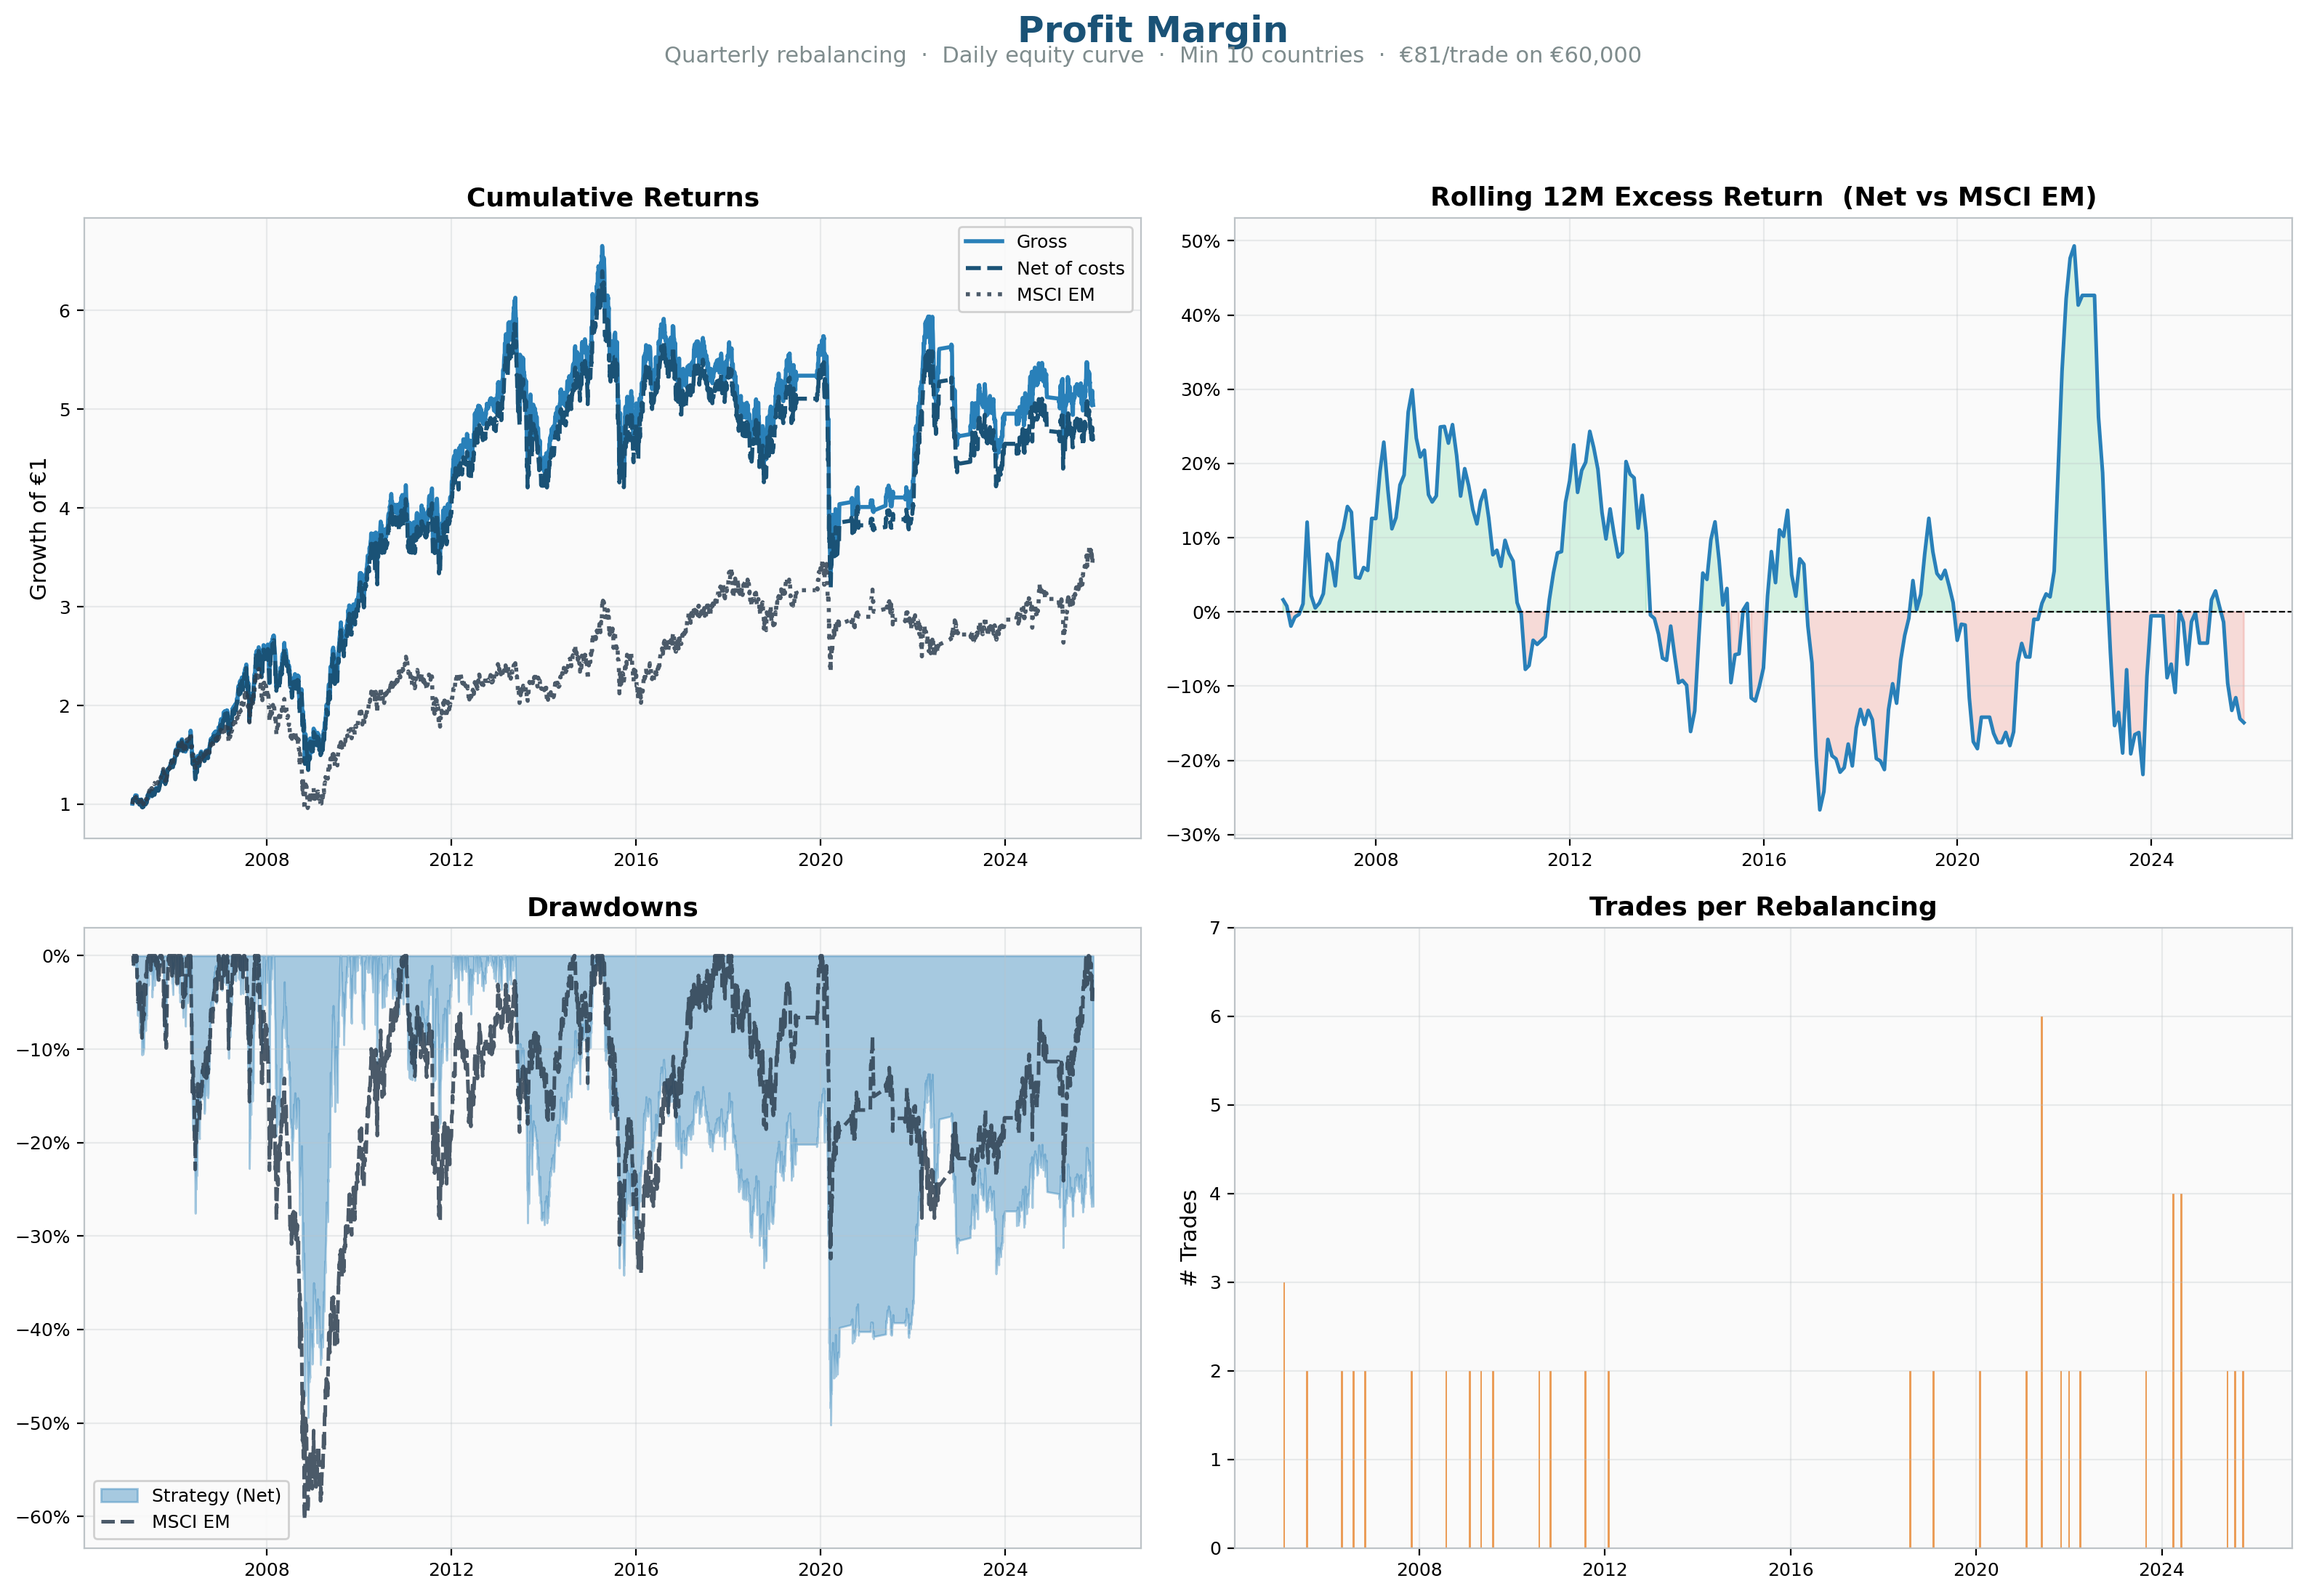
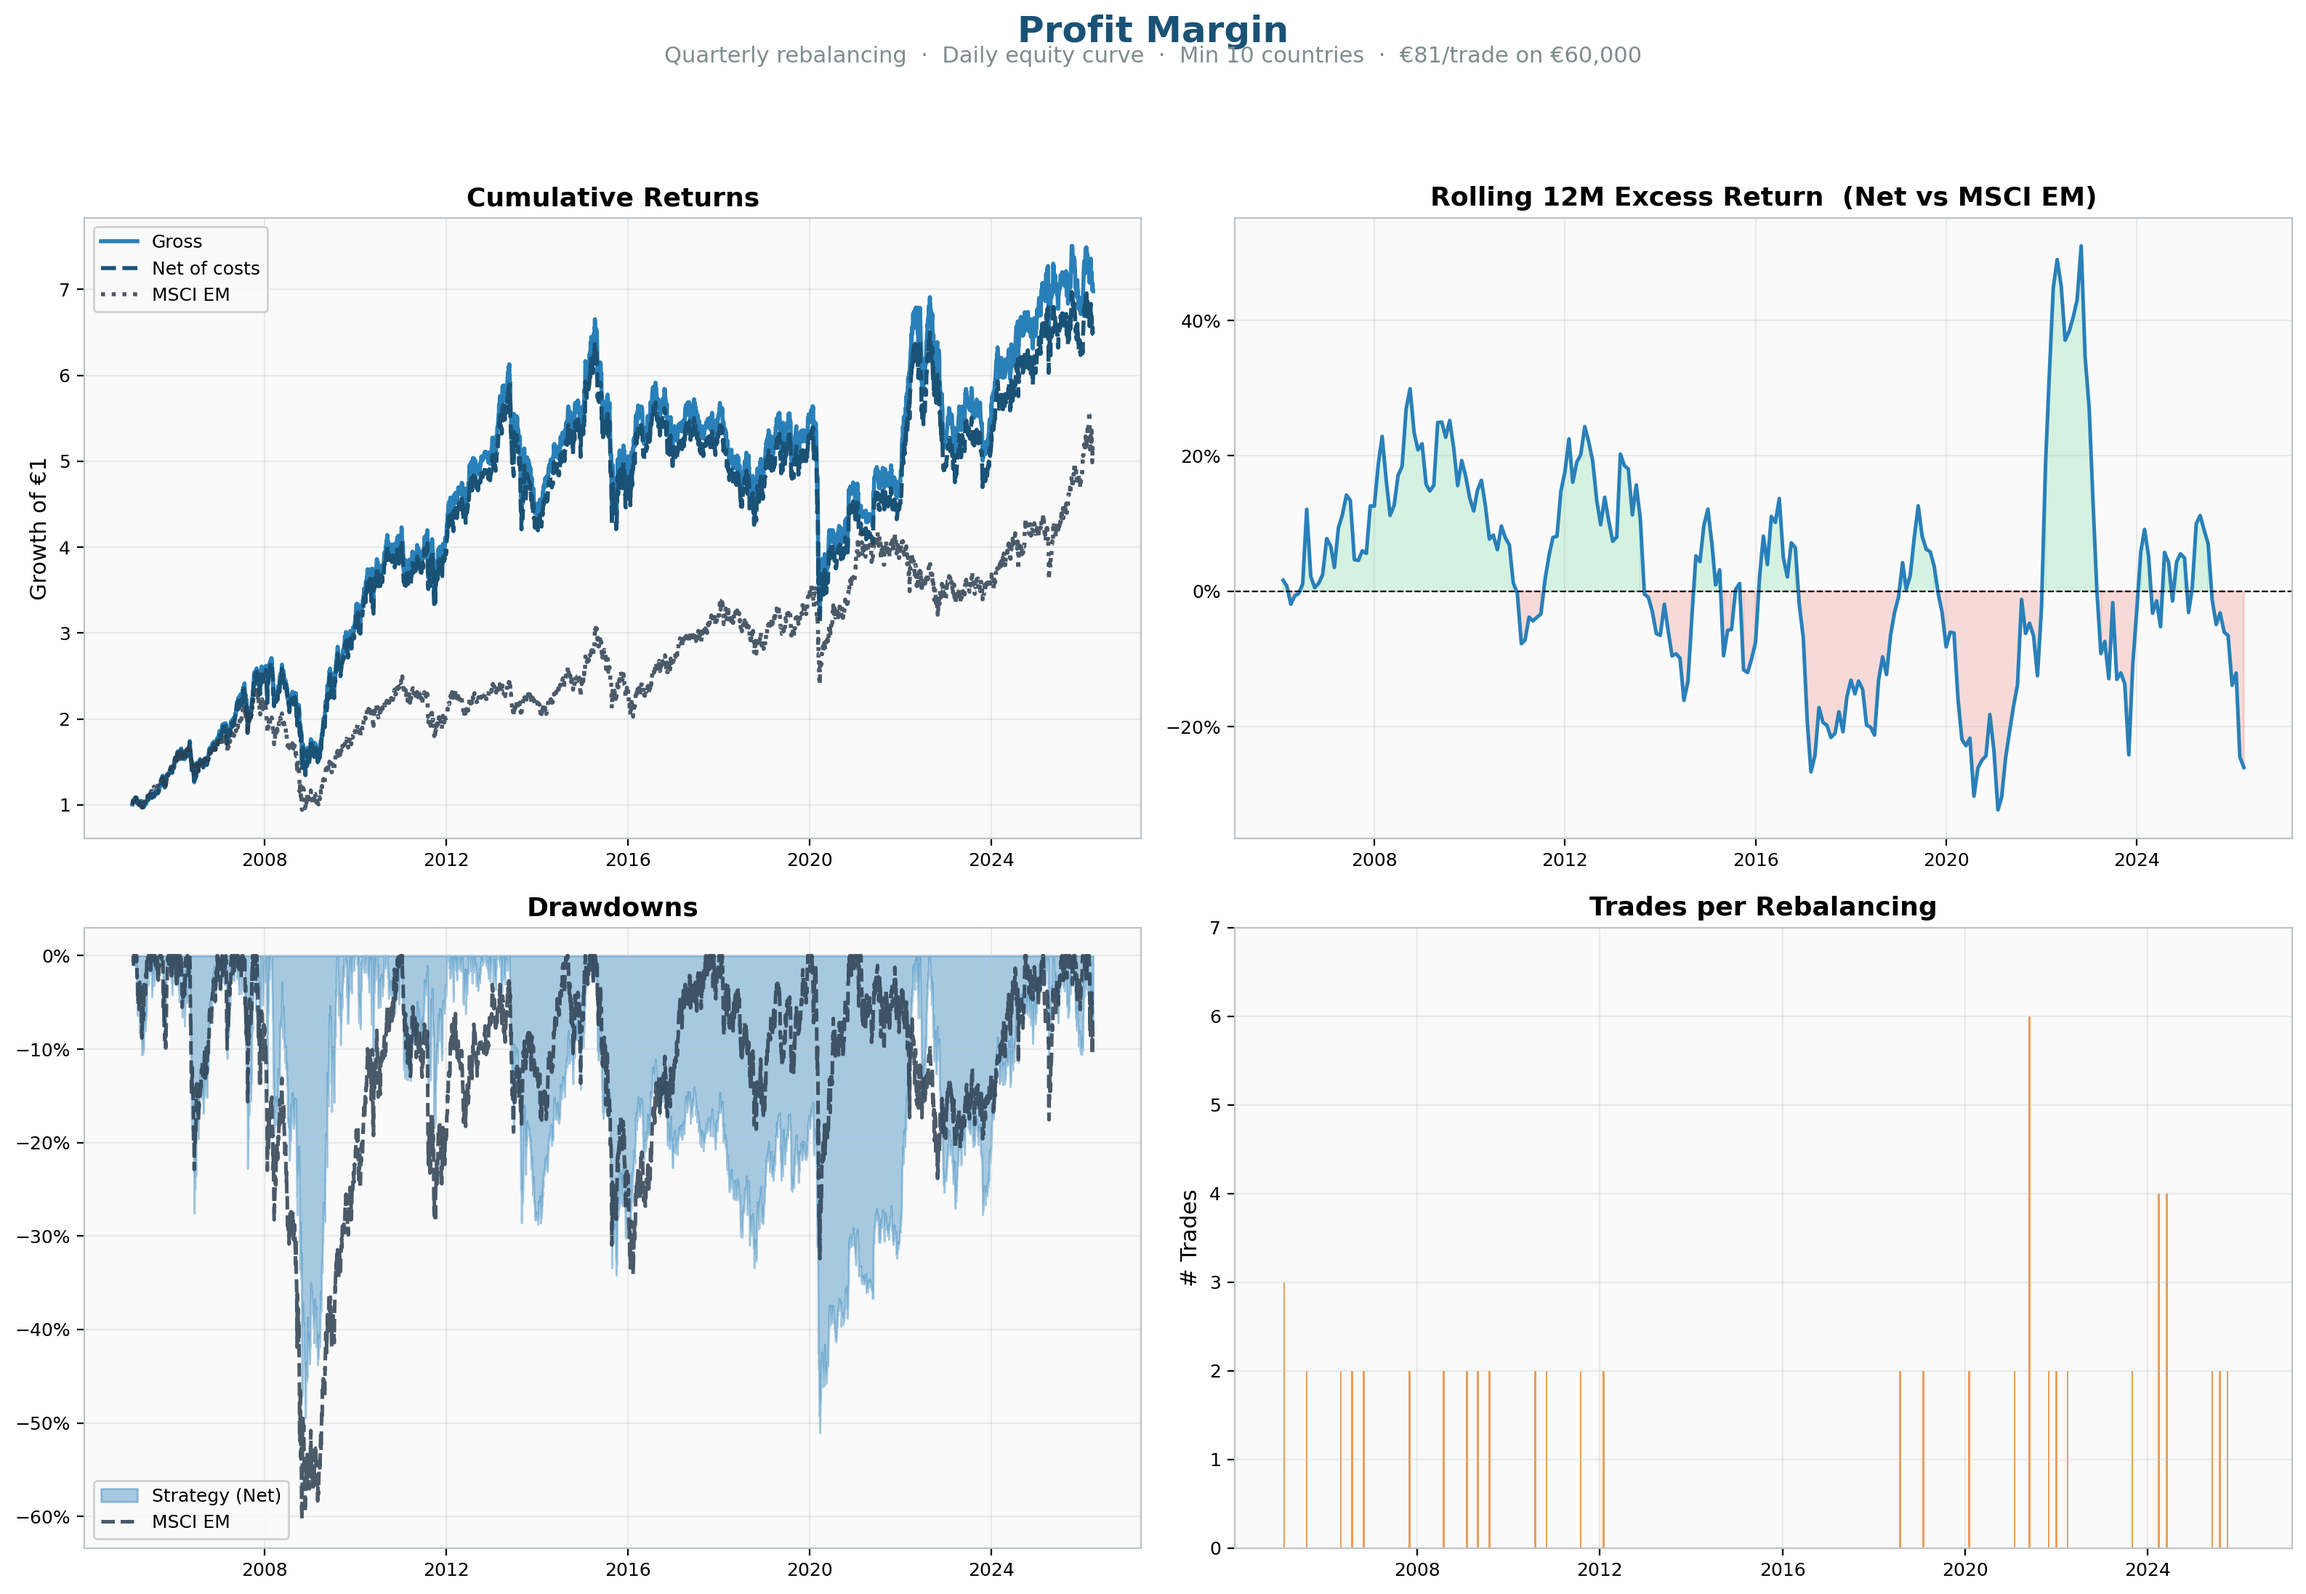
strategy updates

diff --git a/strategy_backtest.py b/strategy_backtest.py
@@ -175,11 +175,8 @@ def run_strategy(factor_id, factor_label, higher_is_better,
         valid_cols = set(daily_country_prices.columns)
         fslice = fslice[fslice["country"].isin(valid_cols)]
 
-        if len(fslice) < MIN_COUNTRIES:
-            continue
-
-        # Holding period: next trading day after fdate
-        # until next trading day after the next rebalancing date
+        # --- 1. DETERMINE DATES FIRST ---
+        # We must figure out the start/end dates regardless of missing data
         next_days = daily_returns.index[daily_returns.index > fdate]
         if len(next_days) == 0:
             continue
@@ -192,7 +189,15 @@ def run_strategy(factor_id, factor_label, higher_is_better,
         else:
             end_date = None
 
-        # Rank and assign buckets
+        # --- 2. THE STALENESS FIX ---
+        if len(fslice) < MIN_COUNTRIES:
+            # If we lack data, but we already own stocks, just keep holding them!
+            if current_holdings:
+                holdings_history.append((start_date, end_date, current_holdings))
+                n_trades_per_rebal[start_date] = 0 # 0 trades = €0 cost
+            continue
+
+        # --- 3. RANK AND ASSIGN BUCKETS ---
         fslice = fslice.sort_values(
             "factor_value", ascending=not higher_is_better
         ).reset_index(drop=True)
@@ -204,9 +209,13 @@ def run_strategy(factor_id, factor_label, higher_is_better,
         new_holdings = set(fslice[fslice["bucket"] == 1]["country"])
 
         if not new_holdings:
+            # Also hold if bucket sorting fails for some reason
+            if current_holdings:
+                holdings_history.append((start_date, end_date, current_holdings))
+                n_trades_per_rebal[start_date] = 0
             continue
 
-        # Trades count
+        # --- 4. CALCULATE TRADES & COSTS ---
         if not current_holdings:
             n_trades = len(new_holdings)
         else:
